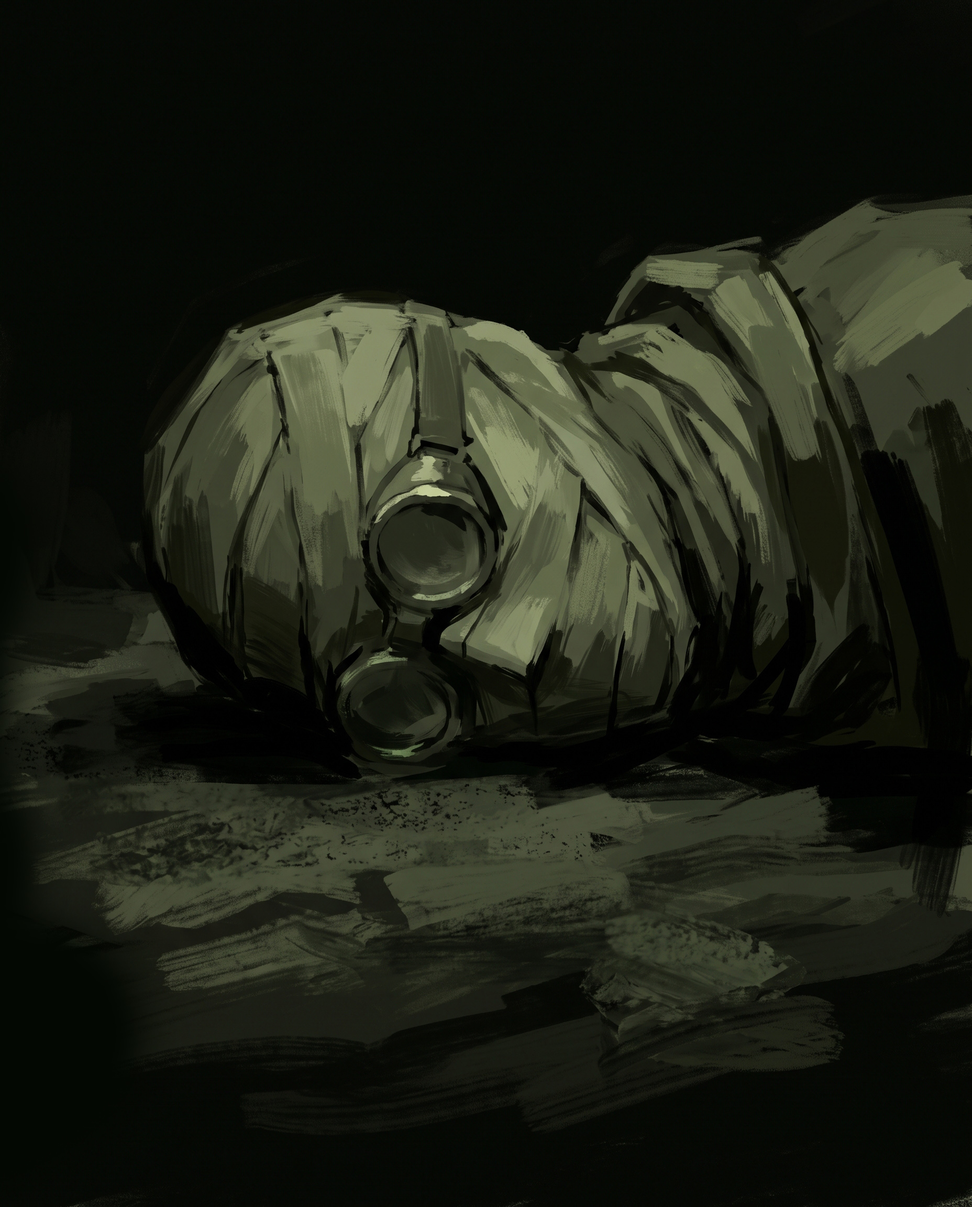
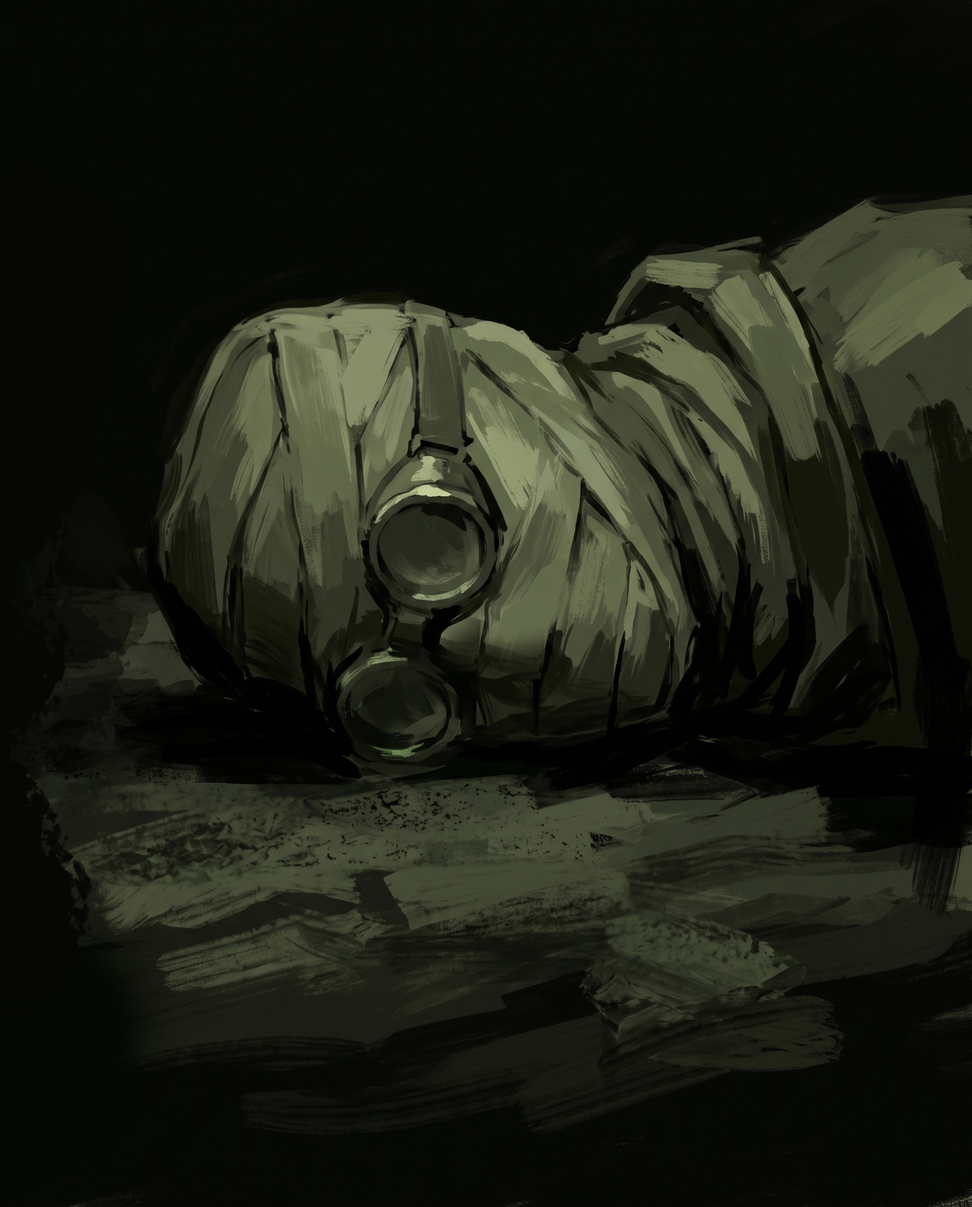
Checkpoint Nest connector panning, story rules, and artwork

diff --git a/tests/graph-connectors.test.js b/tests/graph-connectors.test.js
@@ -16,7 +16,7 @@ class Element {
  getBoundingClientRect(){return {width:0,height:0};}
 }
 class Root extends Element {
- constructor(){super();this.handlers={};this.capture=null;this.parts={'#world':new Element(),'#edges':new Element(),'#nodes':new Element(),'#beat-groups':new Element()};this.ownerDocument={documentElement:new Element(),elementFromPoint:()=>this.hit};
+ constructor(){super();this.handlers={};this.capture=null;this.parts={'#world':new Element(),'#edges':new Element(),'#nodes':new Element(),'#beat-groups':new Element()};this.ownerDocument={documentElement:new Element(),defaultView:{requestAnimationFrame:()=>1},elementFromPoint:()=>this.hit};
   Object.defineProperty(this.parts['#edges'],'innerHTML',{configurable:true,get:()=>this.edgeMarkup,set:html=>{
    this.edgeMarkup=html;
    this.parts['#edges'].children=[...html.matchAll(/<path class="(edge-line[^"]*)" data-source="([^"]*)" data-exit="([^"]*)"/g)].map(([,cls,source,exit])=>new Element(cls,{source,exit}));
@@ -74,7 +74,7 @@ test('Shuffle Fallback and Linear Next label an unnamed linked beat by its type'
 test('Alt-dragging a header previews a copy without moving the source or its wires, then commits at release',()=>{
  const s=setup(),copies=[];s.graph.onDuplicate=(...args)=>copies.push(args);
  s.graph.view.z=.5;
- s.root.ownerDocument.documentElement={};s.root.ownerDocument.defaultView={getComputedStyle:()=>({zoom:2})};
+ s.root.ownerDocument.documentElement={};s.root.ownerDocument.defaultView.getComputedStyle=()=>({zoom:2});
  const before=s.root.parts['#edges'].innerHTML;
  altHeaderDown(s);
  s.root.event('pointermove',s.root,350,225);
@@ -542,7 +542,7 @@ for(const modifier of ['metaKey','ctrlKey'])test(`${modifier} drag selects inter
 
 test('box selection works in reverse at combined graph and editor zoom',()=>{
  const s=setup();s.graph.view.z=.5;
- s.root.ownerDocument.documentElement={};s.root.ownerDocument.defaultView={getComputedStyle:()=>({zoom:2})};
+ s.root.ownerDocument.documentElement={};s.root.ownerDocument.defaultView.getComputedStyle=()=>({zoom:2});
  // client = root offset + UI scale * (pan + world * graph zoom).
  modifiedDown(s,s.root,700,260);
  s.root.event('pointerup',s.root,100,110);
@@ -672,7 +672,7 @@ test('stationary double-click opens standalone creation at the zoomed graph posi
  s.graph.onCancelCreate=()=>dismissed++;
  s.graph.view.z=.5;
  s.root.ownerDocument.documentElement={};
- s.root.ownerDocument.defaultView={getComputedStyle:()=>({zoom:2})};
+ s.root.ownerDocument.defaultView.getComputedStyle=()=>({zoom:2});
  blankClick(s,150,160);
  assert.deepEqual(requests,[]);
  blankClick(s,150,160,200);
@@ -699,7 +699,7 @@ test('double-click and held second press selects a rectangle and selected beats 
 
 test('double-drag selection works in reverse at combined graph and editor zoom',()=>{
  const s=setup();s.graph.view.z=.5;
- s.root.ownerDocument.documentElement={};s.root.ownerDocument.defaultView={getComputedStyle:()=>({zoom:2})};
+ s.root.ownerDocument.documentElement={};s.root.ownerDocument.defaultView.getComputedStyle=()=>({zoom:2});
  blankClick(s,700,260);
  blankPointer(s,'pointerdown',700,260,200);blankPointer(s,'pointerup',100,110,260);
  assert.deepEqual(s.groups,[[],['a','b']]);assert.deepEqual(s.graph.view,{x:50,y:50,z:.5});
@@ -1028,4 +1028,27 @@ test('Delete and Backspace ungroup a selected beat group without deleting its me
   assert.deepEqual(s.deleted,[]);
   assert.deepEqual(s.deletedGroups,[]);
  }
+});
+
+test('a held connector pans at the graph edge and refreshes its endpoint and target',()=>{
+ const {root,graph,port,calls}=setup();
+ const frames=[];
+ root.ownerDocument.defaultView.requestAnimationFrame=callback=>frames.push(callback);
+ root.event('pointerdown',port(),300,200);
+ root.event('pointermove',root,1000,200);
+ const start=graph.view.x;
+ root.hit=root.node('c');
+ frames.shift()();
+ assert.equal(graph.view.x,start-6);
+ assert.equal(graph.drag.px,graph.point({clientX:1000,clientY:200}).x);
+ assert.equal(root.node('c').classes.has('connection-target'),true);
+ frames.shift()();
+ assert.equal(graph.view.x,start-12);
+ root.event('pointermove',root,600,200);
+ frames.shift()();
+ assert.equal(graph.view.x,start-12);
+ root.event('pointerup',root,600,200);
+ frames.shift()();
+ assert.equal(frames.length,0);
+ assert.equal(calls.length,1);
 });

diff --git a/studio/GraphView.js b/studio/GraphView.js
@@ -363,6 +363,17 @@ export class GraphView {
   // Compensate for graph and editor zoom so selection stays two screen pixels wide.
   world.style.setProperty('--graph-selection-width',`${2/(this.view.z*uiScale(this.root))}px`);
  }
+ panAtDragEdge({clientX,clientY}) {
+  const {left,right,top,bottom}=this.root.getBoundingClientRect();
+  if(clientX<left||clientX>=right||clientY<top||clientY>=bottom)return false;
+  const speed=(value,min,max)=>value<min+36?6:value>max-36?-6:0;
+  const x=speed(clientX,left,right),y=speed(clientY,top,bottom);
+  if(!x&&!y)return false;
+  const scale=uiScale(this.root);
+  this.view.x+=x/scale;this.view.y+=y/scale;
+  this.transform();
+  return true;
+ }
  validTarget(id,source) {return (id!==source||this.project.allowCycles!==false)&&this.nodesById.has(id);}
  connectionDrop(e,source) {
   const r=this.root.getBoundingClientRect();
@@ -470,13 +481,31 @@ export class GraphView {
   this.setDraggingCursor(true);this.root.setPointerCapture(e.pointerId);this.root.focus({preventScroll:true});
   this.render(this.project,this.chapter,this.selected,this.active);e.preventDefault();
  }
+ paintConnectionDrag(d,pointer) {
+  const p=this.point(pointer);
+  d.px=p.x;d.py=p.y;
+  this.hoverTarget(d.moved?this.connectionDrop(pointer,d.source):null);
+  this.edges();
+ }
+ trackConnectionEdge(d) {
+  this.root.ownerDocument.defaultView.requestAnimationFrame(()=>{
+   if(this.drag!==d)return;
+   if(this.panAtDragEdge(d.cursor))this.paintConnectionDrag(d,d.cursor);
+   this.trackConnectionEdge(d);
+  });
+ }
  move(e,capture=true) {
   const d=this.drag;if(!d||d.pointer!==e.pointerId)return;
   if(d.kind==='card'){this.cardDrag.move(e);return;}
   if(d.kind==='select'){this.updateBoxSelection(e);return;}
   if(d.kind==='connect'){
    d.moved ||= Math.hypot(e.clientX-d.x,e.clientY-d.y)>4;
-   const p=this.point(e);d.px=p.x;d.py=p.y;this.hoverTarget(d.moved?this.connectionDrop(e,d.source):null);this.edges();
+   if(d.moved){
+    const startTracking=!d.cursor;
+    d.cursor={clientX:e.clientX,clientY:e.clientY};
+    if(startTracking)this.trackConnectionEdge(d);
+   }
+   this.paintConnectionDrag(d,e);
   }else if(d.kind==='pan'){d.moved ||= Math.hypot(e.clientX-d.x,e.clientY-d.y)>4;const scale=uiScale(this.root);this.view.x=d.ox+(e.clientX-d.x)/scale;this.view.y=d.oy+(e.clientY-d.y)/scale;this.transform();}
   else{
    const scale=this.view.z*uiScale(this.root),dx=(e.clientX-d.x)/scale,dy=(e.clientY-d.y)/scale;

diff --git a/studio/card-drag.js b/studio/card-drag.js
@@ -84,11 +84,7 @@ export class CardDrag {
   const win=this.graph.root.ownerDocument.defaultView;
   this.frame=win.requestAnimationFrame(()=>{
    this.frame=null;const g=this.graph,d=g.drag;if(d?.kind!=='card'||!d.moved)return;
-   const r=g.root.getBoundingClientRect(),speed=(v,min,max)=>v<min+36?6:v>max-36?-6:0;
-   if(d.clientX>=r.left&&d.clientX<r.right&&d.clientY>=r.top&&d.clientY<r.bottom){
-    const x=speed(d.clientX,r.left,r.right),y=speed(d.clientY,r.top,r.bottom);
-    if(x||y){const scale=uiScale(g.root);g.view.x+=x/scale;g.view.y+=y/scale;g.transform();this.paint(d);}
-   }
+   if(g.panAtDragEdge(d))this.paint(d);
    this.tick();
   });
  }

diff --git a/docs/storytelling-principles.md b/docs/storytelling-principles.md
@@ -10,6 +10,12 @@ Treat story cards as comic panels. Let a salient detail in one card motivate the
 
 Use Linear for the narrative spine. Offer choices when the current scene puts a concrete decision in front of the player, such as taking the pistol or choosing how to move the forklift. Let encounters interrupt that flow at a believable moment. In First Descent, the booth and the Security door each have an independent 65% chance of a Rat encounter. The narrative continues smoothly when a draw is empty.
 
+## Chapter progression and saving
+
+A chapter moves forward from each committed choice. Use cards to advance the story. Avoid making the card flow a system for navigating the physical layout. Lazarus can occasionally return to a place he has already visited as the story unfolds.
+
+Completing a chapter saves the full game state, including inventory, stats, and the consequences of decisions. If Lazarus dies before completion, restart the same chapter from its entry state. Discard all changes from that attempt, including items gained or spent and changes to stats or story state.
+
 ## Escape and discovery
 
 Lazarus wants to reach the surface. The main gate is sealed, and the first useful lead takes him down. Each descent should follow a concrete clue or obstacle and keep the goal of getting out in view. Reveal causes gradually through evidence he encounters. At the gate, casings, wounds, and a weapon suggest the crowd turned on itself. Later records connect mutation with aggression, while the trigger at the gate remains uncertain.
